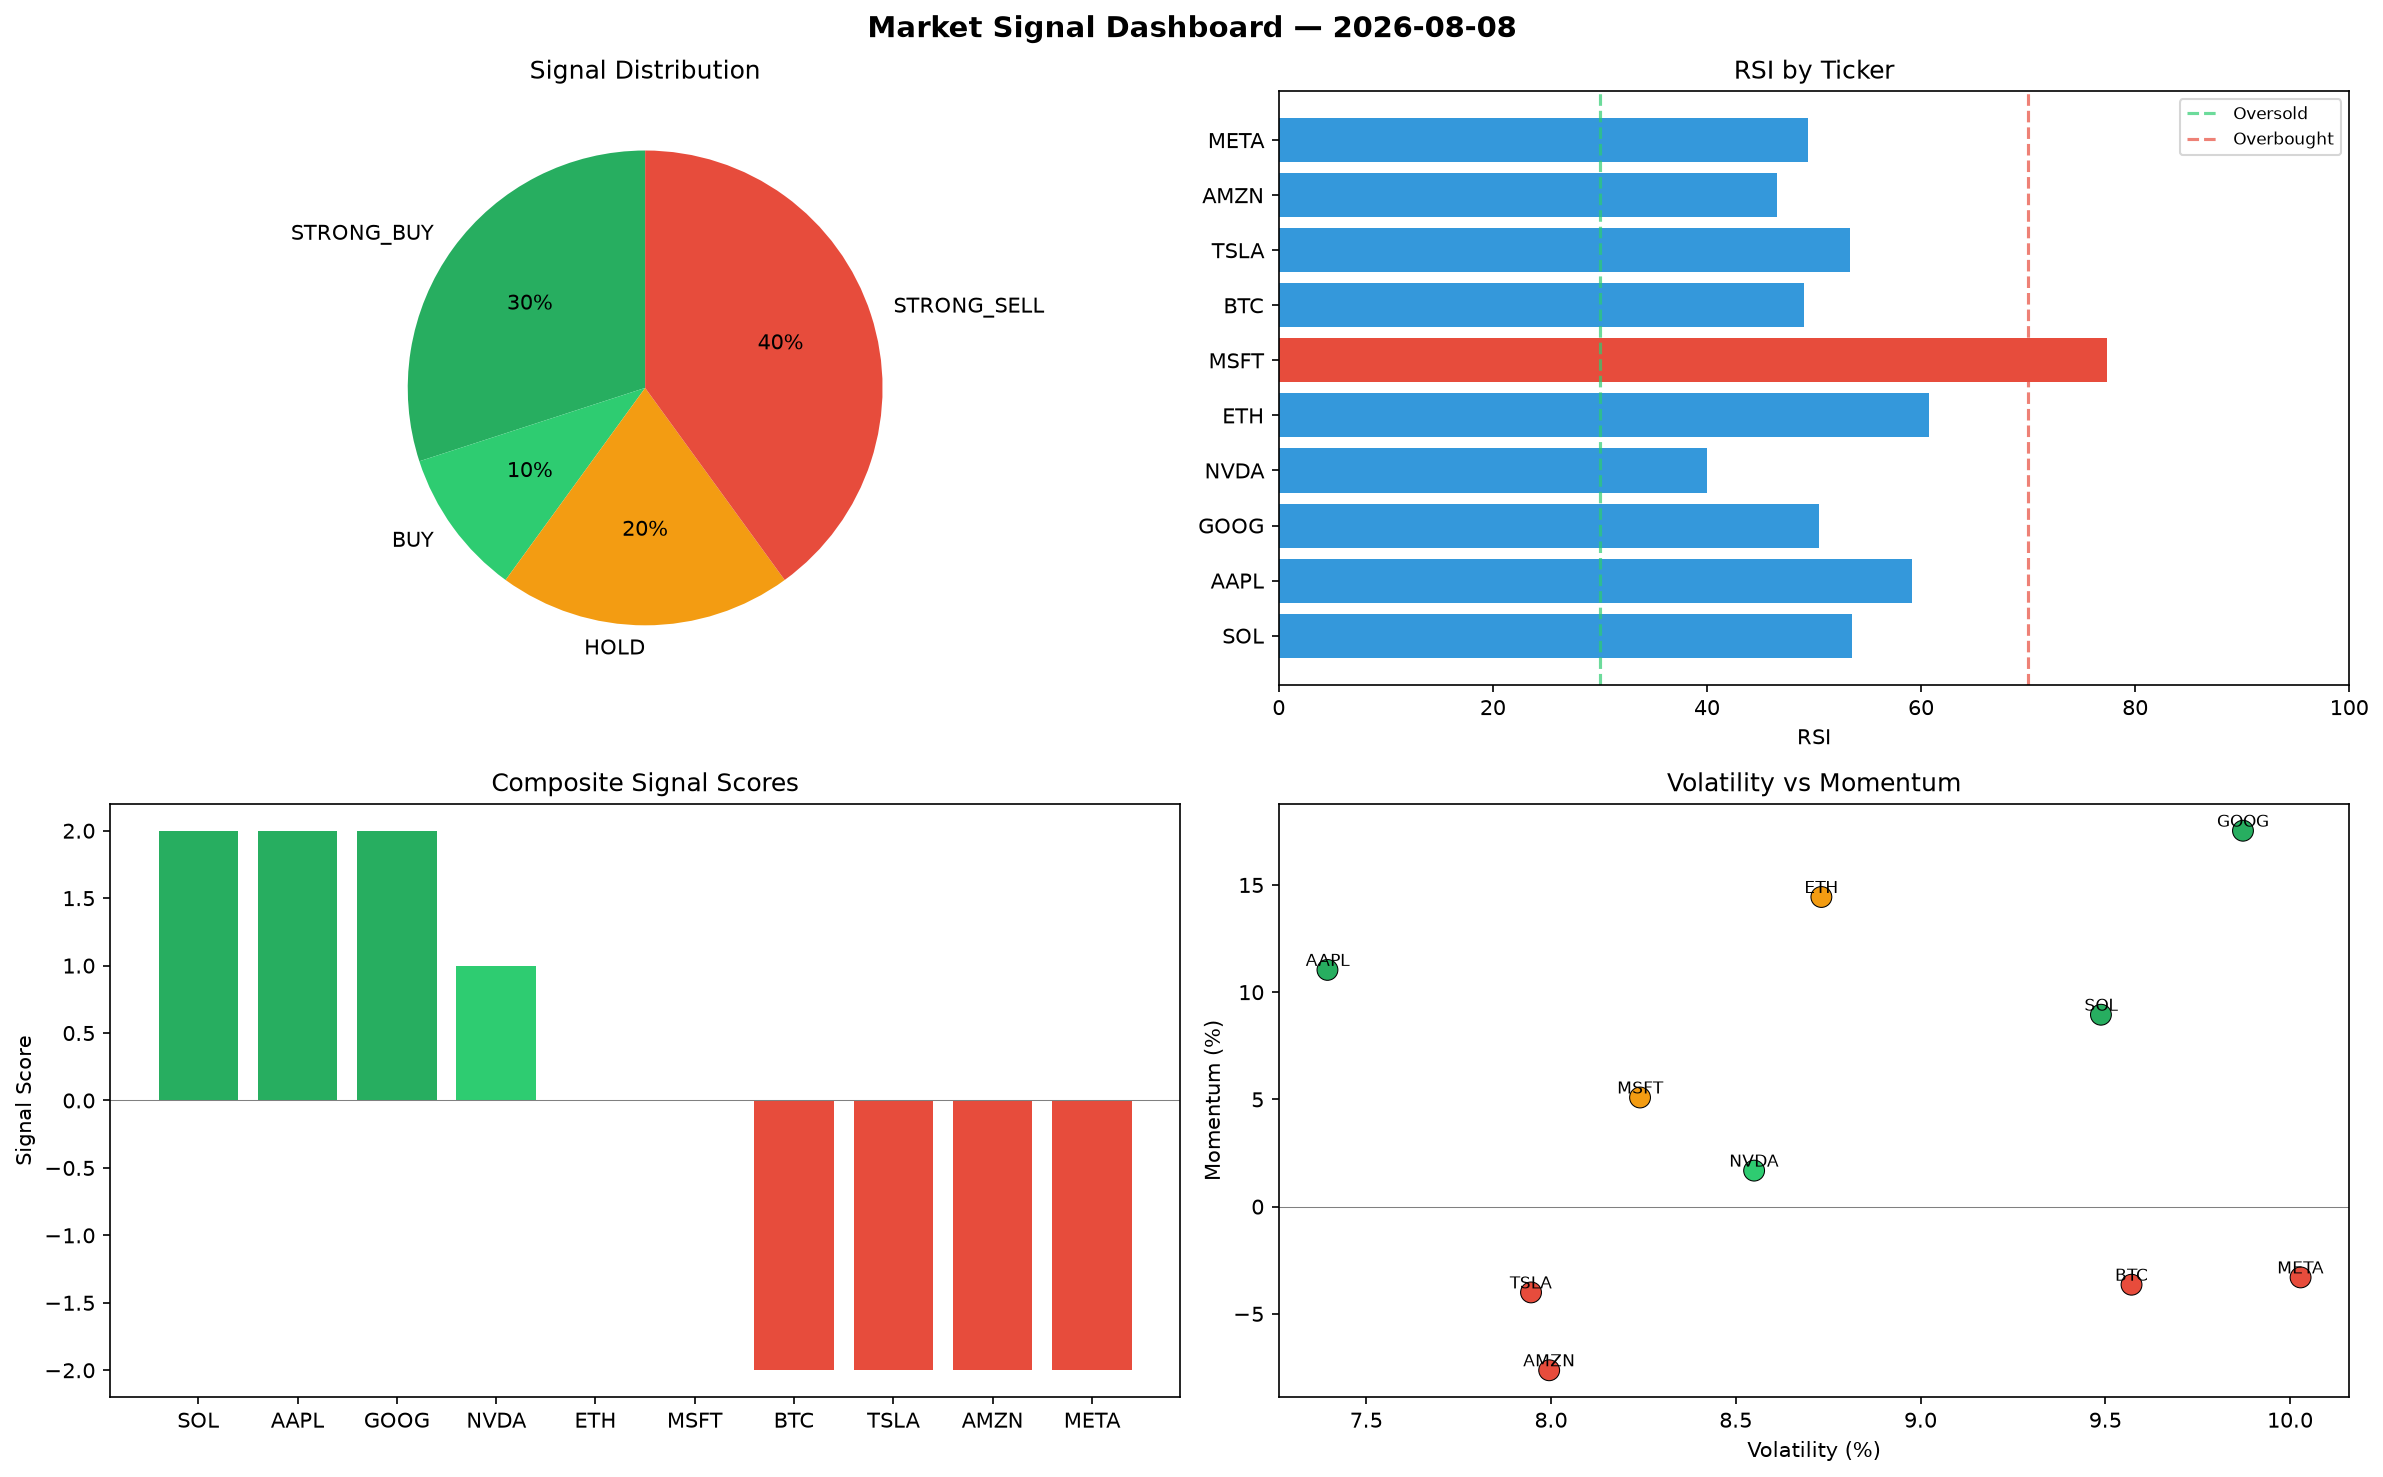
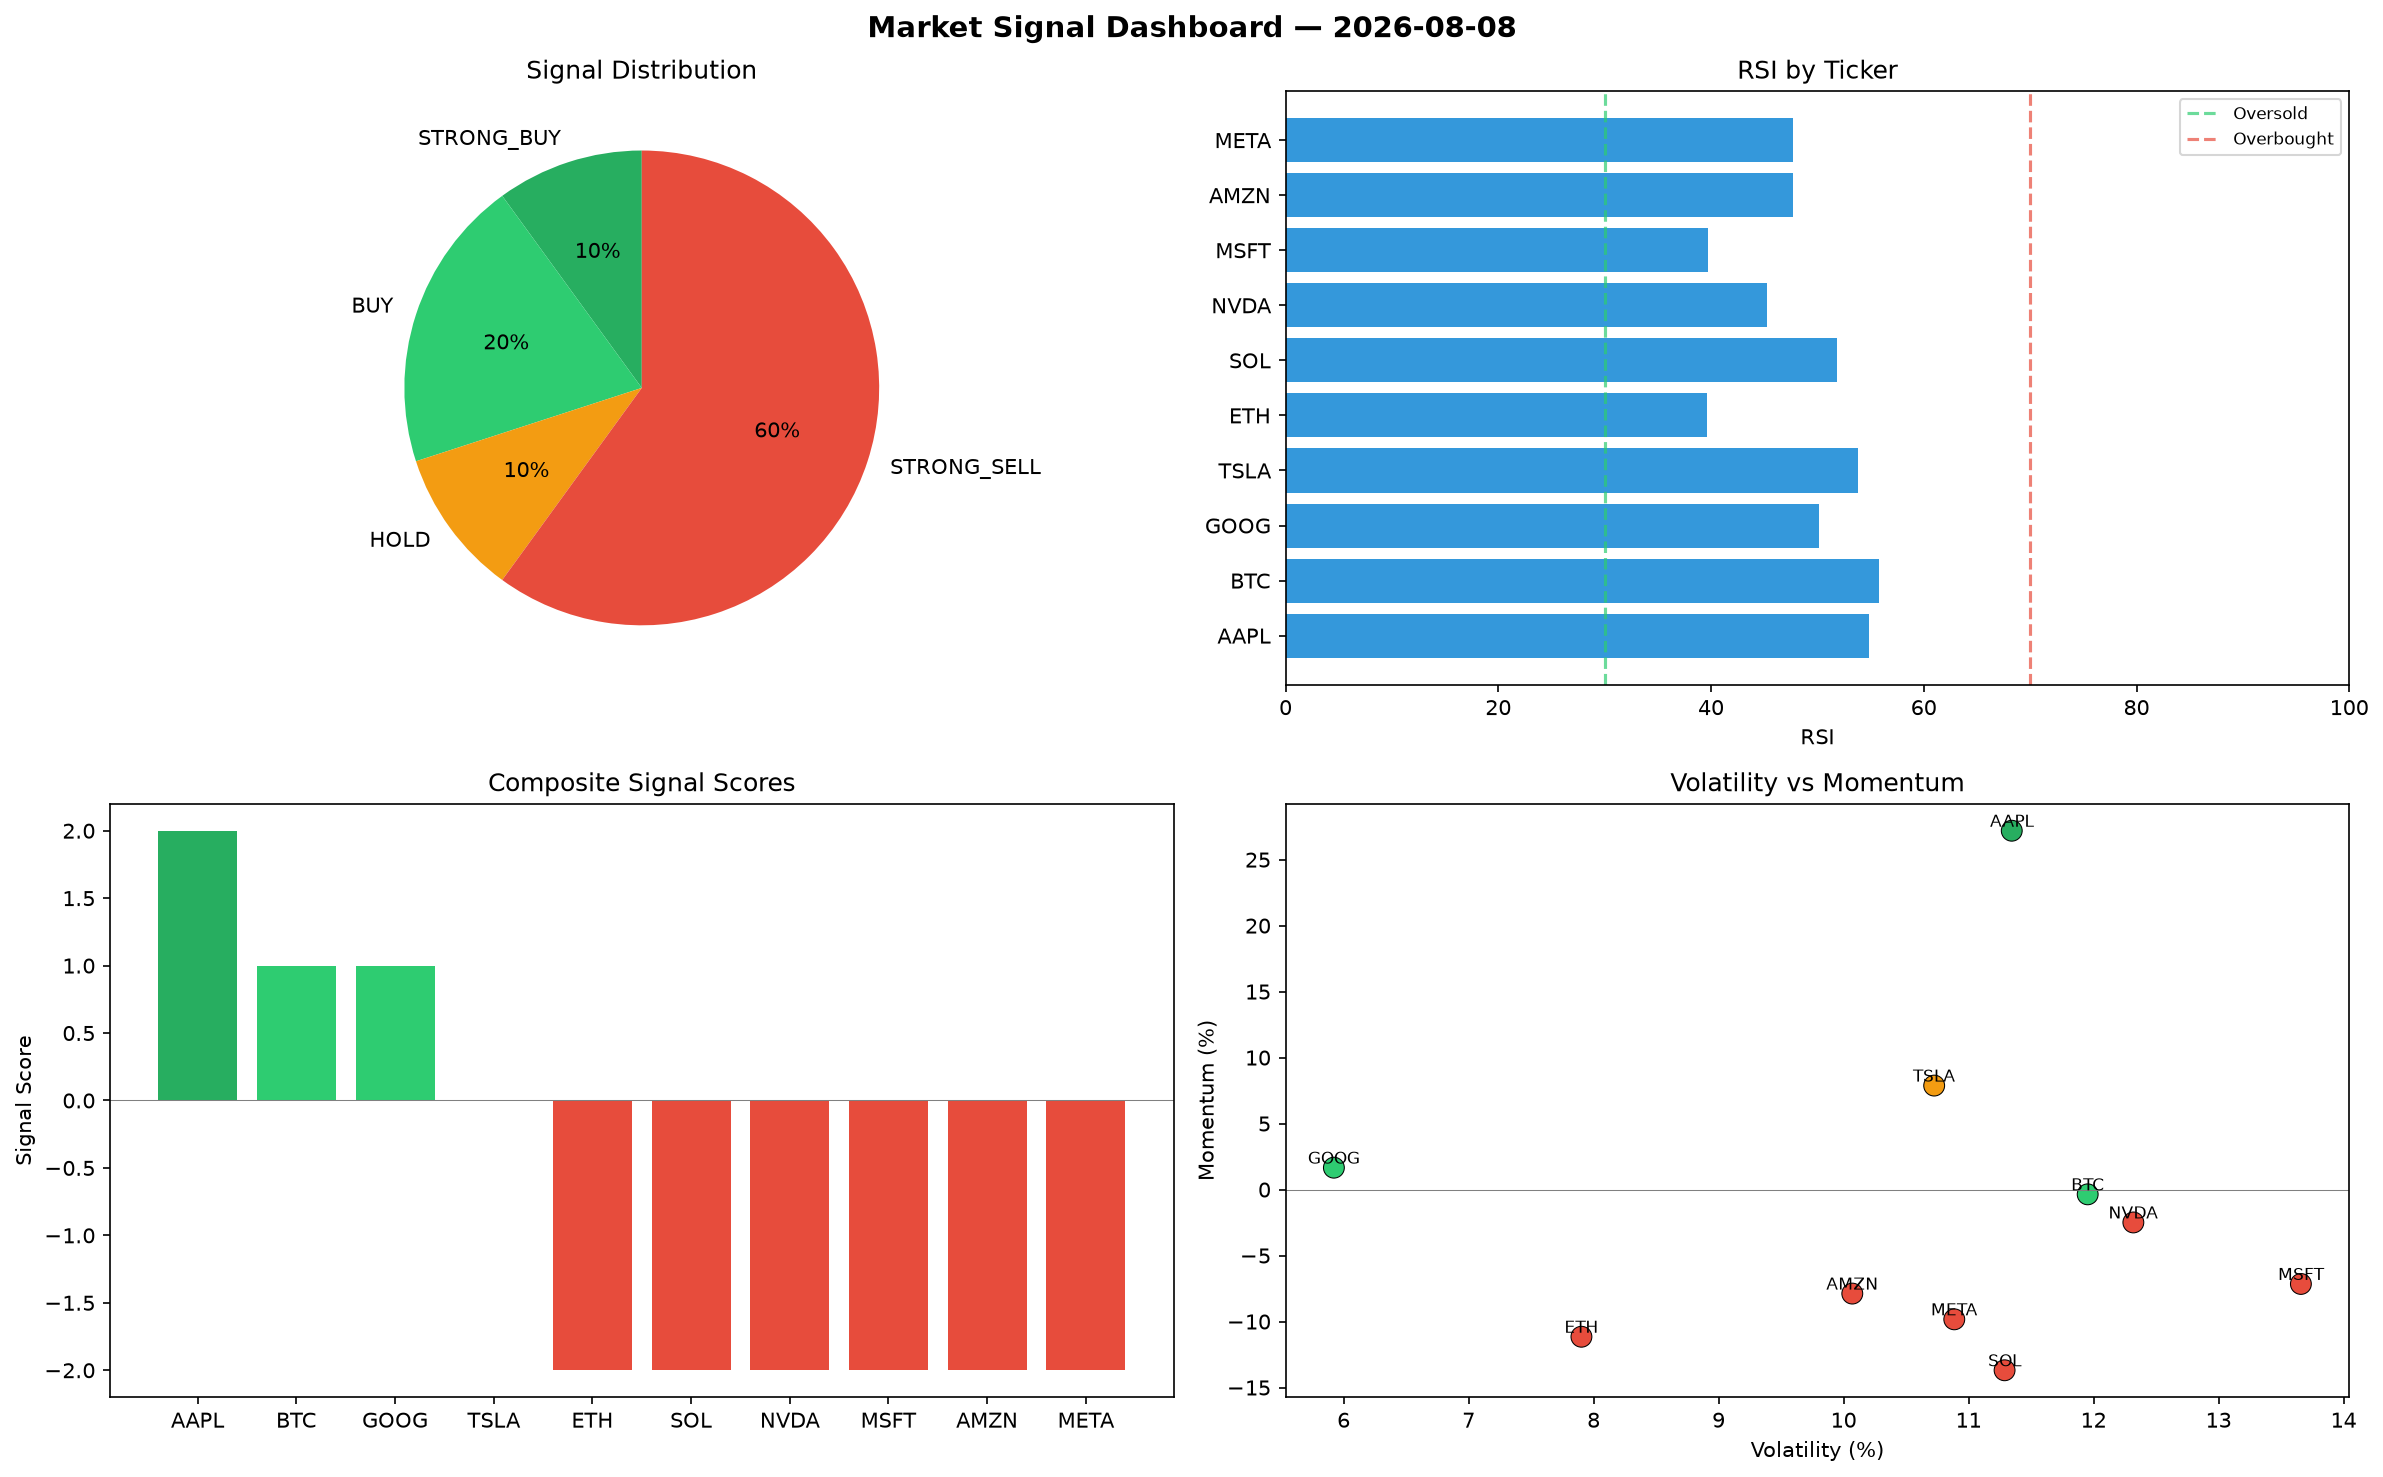
automated-bots: market signals 2026-08-08T09:08

diff --git a/logs/2026-08-08.md b/logs/2026-08-08.md
@@ -1,6 +1,6 @@
 # Market Signal Report — 2026-08-08
 
-**Run ID:** `0ca282cc0c` | **Buy:** 4 | **Sell:** 4 | **Hold:** 2
+**Run ID:** `520e605779` | **Buy:** 3 | **Sell:** 6 | **Hold:** 1
 
 ![Dashboard](2026-08-08_dashboard.png)
 
@@ -8,28 +8,28 @@
 
 | Ticker | Price | Signal | Score | RSI | Momentum | Confidence |
 |--------|-------|--------|-------|-----|----------|------------|
-| SOL | $4015.13 | **STRONG_BUY** | 2 | 53.51 | 0.0895 | 0.5 |
-| AAPL | $4451.35 | **STRONG_BUY** | 2 | 59.12 | 0.1104 | 0.5 |
-| GOOG | $4926.48 | **STRONG_BUY** | 2 | 50.47 | 0.1753 | 0.5 |
-| NVDA | $3829.07 | **BUY** | 1 | 40.01 | 0.0168 | 0.25 |
-| ETH | $945.89 | **HOLD** | 0 | 60.7 | 0.1444 | 0.0 |
-| MSFT | $2928.11 | **HOLD** | 0 | 77.36 | 0.0509 | 0.0 |
-| BTC | $3514.21 | **STRONG_SELL** | -2 | 49.11 | -0.0364 | 0.5 |
-| TSLA | $4681.84 | **STRONG_SELL** | -2 | 53.39 | -0.04 | 0.5 |
-| AMZN | $4067.64 | **STRONG_SELL** | -2 | 46.51 | -0.0763 | 0.5 |
-| META | $4006.71 | **STRONG_SELL** | -2 | 49.45 | -0.033 | 0.5 |
+| AAPL | $4555.07 | **STRONG_BUY** | 2 | 54.88 | 0.2719 | 0.5 |
+| BTC | $2081.7 | **BUY** | 1 | 55.79 | -0.0036 | 0.25 |
+| GOOG | $2744.37 | **BUY** | 1 | 50.17 | 0.0166 | 0.25 |
+| TSLA | $2415.31 | **HOLD** | 0 | 53.83 | 0.0788 | 0.0 |
+| ETH | $1186.43 | **STRONG_SELL** | -2 | 39.65 | -0.1115 | 0.5 |
+| SOL | $2069.24 | **STRONG_SELL** | -2 | 51.82 | -0.1369 | 0.5 |
+| NVDA | $1146.87 | **STRONG_SELL** | -2 | 45.26 | -0.0249 | 0.5 |
+| MSFT | $4824.44 | **STRONG_SELL** | -2 | 39.68 | -0.0715 | 0.5 |
+| AMZN | $1209.59 | **STRONG_SELL** | -2 | 47.74 | -0.0788 | 0.5 |
+| META | $2609.85 | **STRONG_SELL** | -2 | 47.7 | -0.0983 | 0.5 |
 
 ## Delta vs Yesterday
 
 | Ticker | Today | Yesterday | Price Change | Signal Changed |
 |--------|-------|-----------|-------------|----------------|
-| SOL | STRONG_BUY | STRONG_BUY | 📈 42.69% | — |
-| AAPL | STRONG_BUY | HOLD | 📈 147.29% | ⚠ YES |
-| GOOG | STRONG_BUY | SELL | 📈 1926.19% | ⚠ YES |
-| NVDA | BUY | STRONG_BUY | 📉 -9.87% | ⚠ YES |
-| ETH | HOLD | STRONG_SELL | 📉 -68.63% | ⚠ YES |
-| MSFT | HOLD | HOLD | 📈 193.16% | — |
-| BTC | STRONG_SELL | SELL | 📉 -16.86% | ⚠ YES |
-| TSLA | STRONG_SELL | STRONG_BUY | 📈 3648.17% | ⚠ YES |
-| AMZN | STRONG_SELL | SELL | 📈 100.66% | ⚠ YES |
-| META | STRONG_SELL | HOLD | 📈 10.58% | ⚠ YES |
+| AAPL | STRONG_BUY | HOLD | 📈 153.05% | ⚠ YES |
+| BTC | BUY | SELL | 📉 -50.75% | ⚠ YES |
+| GOOG | BUY | SELL | 📈 1028.72% | ⚠ YES |
+| TSLA | HOLD | STRONG_BUY | 📈 1833.64% | ⚠ YES |
+| ETH | STRONG_SELL | STRONG_SELL | 📉 -60.65% | — |
+| SOL | STRONG_SELL | STRONG_BUY | 📉 -26.46% | ⚠ YES |
+| NVDA | STRONG_SELL | STRONG_BUY | 📉 -73.0% | ⚠ YES |
+| MSFT | STRONG_SELL | HOLD | 📈 383.01% | ⚠ YES |
+| AMZN | STRONG_SELL | SELL | 📉 -40.33% | ⚠ YES |
+| META | STRONG_SELL | HOLD | 📉 -27.97% | ⚠ YES |
